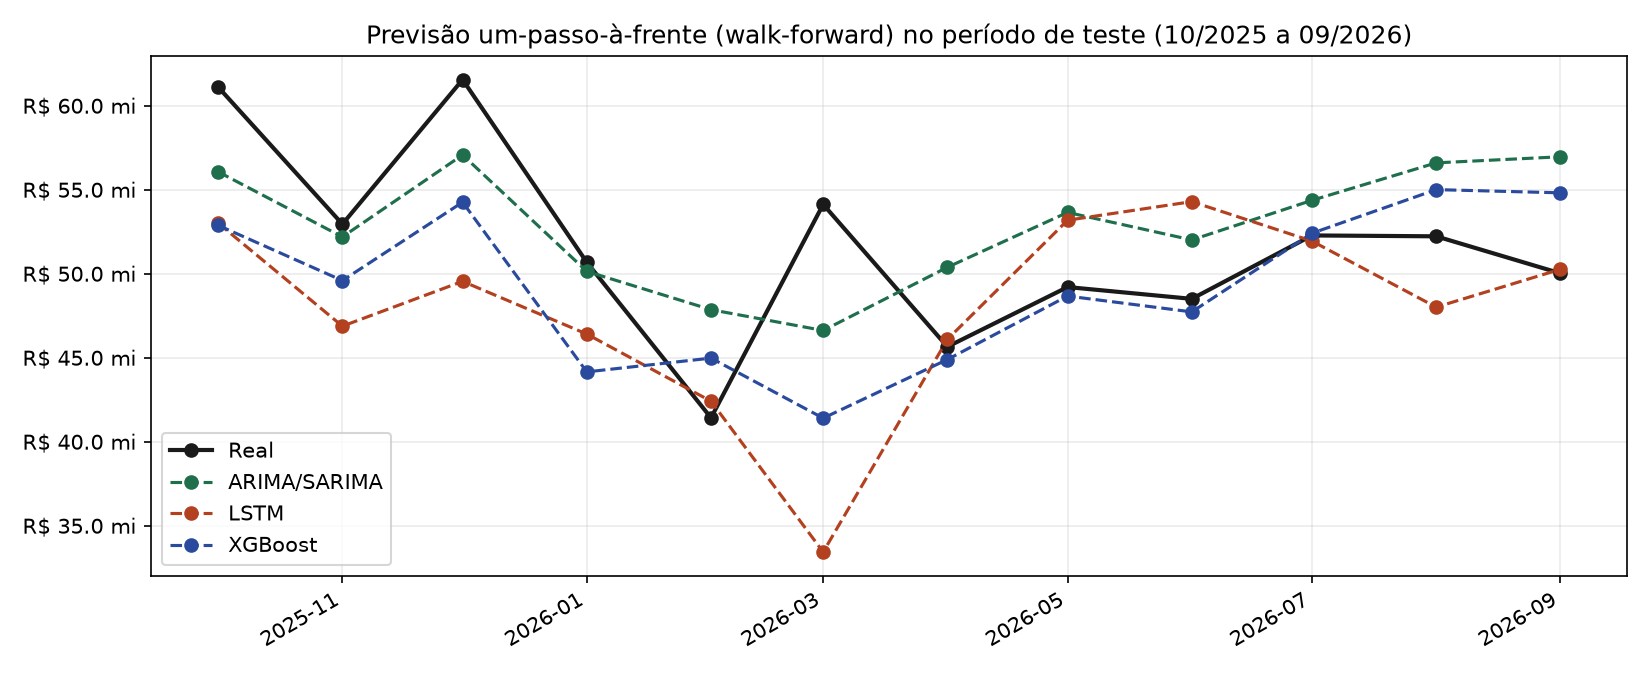
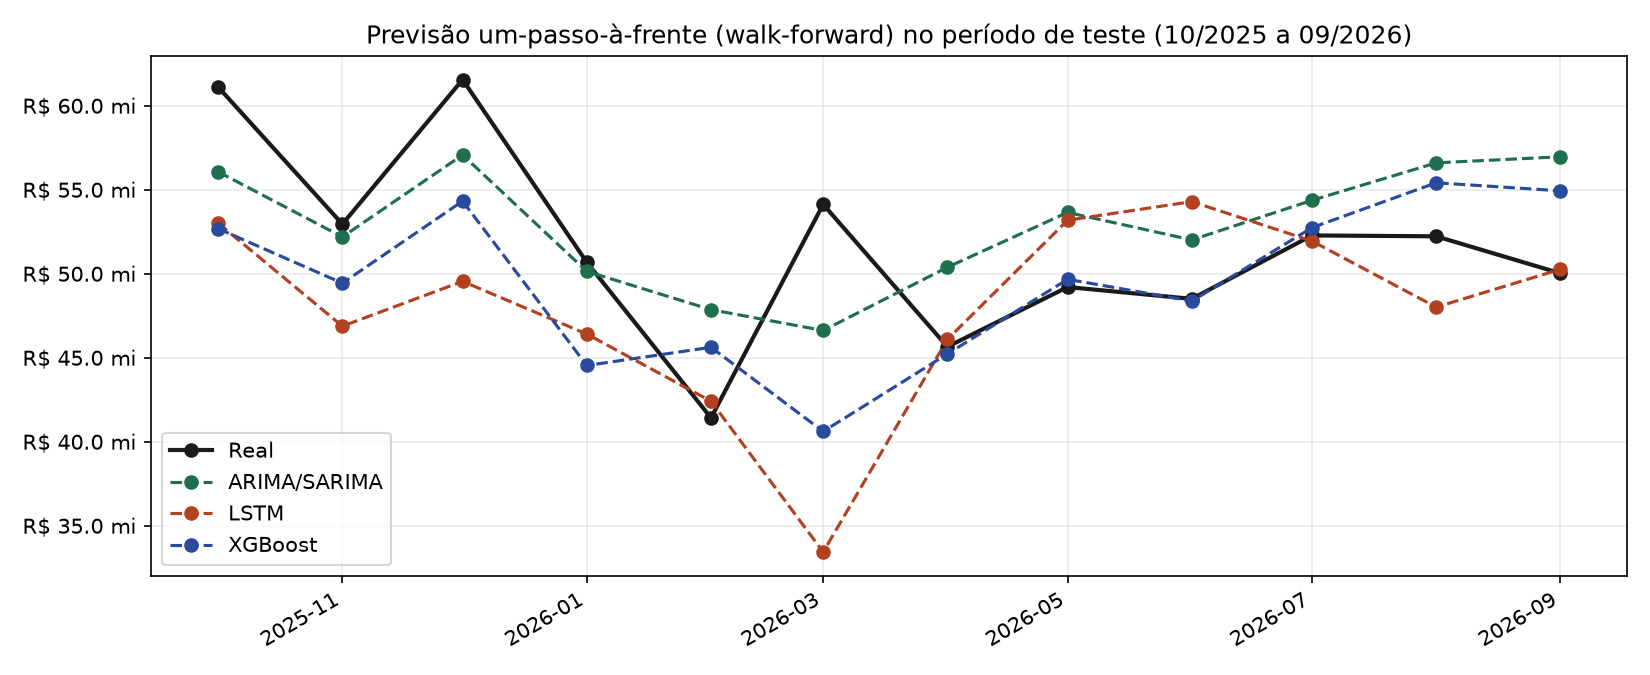
Remove inpc_pct e dummy_lei das entradas do XGBoost
As três arquiteturas passam a usar apenas a série de arrecadação (o
XGBoost, também o calendário: defasagens, média móvel e sazonalidade do
mês). Remove a tabela de percentuais do INPC e a coluna inpc_pct do
loader, mantendo dummy_lei disponível, mas fora dos modelos. Reexecuta
a pipeline e a análise estatística: o MAPE do XGBoost vai de 8,01% para
8,20% e o ganho do ensemble SARIMA+XGBoost praticamente desaparece
(8,18% contra 8,20%). Atualiza o README.

diff --git a/src/data/real_data_loader.py b/src/data/real_data_loader.py
@@ -34,17 +34,10 @@ import pandas as pd
 
 CAMINHO_PADRAO = Path(__file__).resolve().parents[2] / "data" / "raw" / "arrecadacao_bruta_mensal_real_2019_2026.csv"
 
-# Reajustes anuais do INPC aplicados à tabela de emolumentos em janeiro de
-# cada ano (percentuais oficiais, conforme Resoluções GP do TJMA e notícia
-# institucional "Tabela dos serviços cartorários"; anos sem percentual
-# oficial localizado ficam com 0.0 e podem ser complementados depois).
-INPC_REAJUSTE_JANEIRO = {
-    2025: 4.84,
-    2026: 4.17,
-}
-
 # Anos de quebra normativa relevante identificados no Capítulo 2 do Projeto
-# de Qualificação (Lei nº 11.400/2020 e Lei nº 12.325/2024).
+# de Qualificação (Lei nº 11.400/2020 e Lei nº 12.325/2024). A coluna
+# `dummy_lei` fica disponível para experimentos, mas não é usada por nenhum
+# dos três modelos da comparação principal.
 QUEBRAS_LEGISLATIVAS = {2020, 2024}
 
 
@@ -54,7 +47,6 @@ def carregar_serie_real(caminho_csv: str | Path = CAMINHO_PADRAO) -> pd.DataFram
 
     Colunas devolvidas:
         arrecadacao   -> Arrecadação Bruta (A) somada de todas as serventias no mês (R$)
-        inpc_pct      -> reajuste do INPC aplicado naquele mês (0 fora de janeiro)
         dummy_lei     -> 1 nos anos de quebra legislativa adicional, 0 caso contrário
         mes           -> mês do ano (1-12)
         n_serventias  -> nº de serventias que reportaram arrecadação naquele mês (contexto)
@@ -63,13 +55,9 @@ def carregar_serie_real(caminho_csv: str | Path = CAMINHO_PADRAO) -> pd.DataFram
     df = df.set_index("competencia").sort_index()
     df.index.name = "competencia"
 
-    df["inpc_pct"] = [
-        INPC_REAJUSTE_JANEIRO.get(data.year, 0.0) if data.month == 1 else 0.0
-        for data in df.index
-    ]
     df["dummy_lei"] = [1 if data.year in QUEBRAS_LEGISLATIVAS else 0 for data in df.index]
     df = df.rename(columns={"arrecadacao_bruta": "arrecadacao"})
-    df = df[["arrecadacao", "inpc_pct", "dummy_lei", "mes", "n_serventias"]]
+    df = df[["arrecadacao", "dummy_lei", "mes", "n_serventias"]]
     return df
 
 

diff --git a/src/models/xgboost_model.py b/src/models/xgboost_model.py
@@ -4,6 +4,10 @@ xgboost_model.py
 Modelo 3: XGBoost sobre features de defasagem (lags), conforme Seção 3.3.3
 do Projeto de Qualificação - escolhido, no cenário de dados escassos, por
 sua robustez reconhecida na literatura frente a redes profundas.
+
+As entradas derivam apenas da própria série de arrecadação (defasagens e
+média móvel) e do calendário (sazonalidade cíclica do mês), de modo que as
+três arquiteturas comparadas usem a mesma informação.
 """
 
 from __future__ import annotations
@@ -12,7 +16,7 @@ import numpy as np
 import pandas as pd
 from xgboost import XGBRegressor
 
-FEATURES = ["lag_1", "lag_2", "lag_3", "lag_12", "media_movel_3", "mes_sin", "mes_cos", "inpc_pct", "dummy_lei"]
+FEATURES = ["lag_1", "lag_2", "lag_3", "lag_12", "media_movel_3", "mes_sin", "mes_cos"]
 
 
 def treinar_xgboost(df_treino_feats: pd.DataFrame, coluna_alvo: str = "arrecadacao") -> XGBRegressor:
@@ -47,7 +51,6 @@ def forecast_multistep_xgboost(
     anteriores do próprio modelo como novas defasagens (estratégia recursiva
     padrão em previsão multi-step com modelos de regressão)."""
     historico = df_completo_feats[coluna_alvo].copy()
-    inpc_futuro = 0.0  # sem reajuste presumido nos meses futuros além de janeiro
     previsoes = []
     ultimo_mes = df_completo_feats.index[-1].month
     for passo in range(n_passos):
@@ -60,8 +63,6 @@ def forecast_multistep_xgboost(
             "media_movel_3": historico.iloc[-3:].mean(),
             "mes_sin": np.sin(2 * np.pi * mes_futuro / 12),
             "mes_cos": np.cos(2 * np.pi * mes_futuro / 12),
-            "inpc_pct": 4.5 if mes_futuro == 1 else 0.0,  # reajuste médio presumido em janeiro
-            "dummy_lei": 0,
         }
         X = pd.DataFrame([linha])[FEATURES]
         pred = float(modelo.predict(X)[0])

diff --git a/README.md b/README.md
@@ -113,9 +113,15 @@ recentes: outubro/2025 a setembro/2026):
 
 | Modelo | MAE | RMSE | MAPE (%) |
 |---|---:|---:|---:|
-| **XGBoost** | 4.288.162,21 | 5.638.177,42 | **8,01** |
+| **XGBoost** | 4.384.294,86 | 5.835.451,46 | **8,20** |
 | **ARIMA/SARIMA** | 4.237.753,15 | 4.745.362,49 | 8,36 |
 | **LSTM (NumPy)** | 5.594.108,73 | 7.965.571,28 | 10,29 |
+
+As três arquiteturas usam apenas a série de arrecadação (o XGBoost, também o
+calendário, por meio de defasagens, média móvel e sazonalidade cíclica do mês),
+sem variáveis externas. As diferenças entre os modelos não são estatisticamente
+significativas com 12 meses de teste (Friedman, p = 0,78); ver
+`scripts/analise_estatistica.py`.
 
 O XGBoost e o modelo clássico (ARIMA/SARIMA) tiveram desempenho muito próximo e
 superior ao da LSTM — resultado consistente com a **Hipótese H1** do
@@ -142,9 +148,9 @@ multi-step dos 12 meses seguintes (out/2026–set/2027).
    aleatória), hoje usando configurações razoáveis mas não otimizadas.
 3. Reimplementar a LSTM em PyTorch/TensorFlow para viabilizar regularização e
    arquiteturas mais profundas (GRU, LSTM empilhada).
-4. Incorporar o INPC como regressora exógena de forma sistemática (a coluna já
-   existe em `real_data_loader.py`, mas com apenas dois anos de percentual
-   oficial mapeado — 2025 e 2026) e avaliar seu efeito marginal (Hipótese H2).
+4. Ampliar a comparação estatística (múltiplas origens de previsão e séries
+   por serventia ou comarca, com teste de Friedman e post hoc de Nemenyi) e
+   construir o ensemble com o combinador ajustado em período de validação.
 
 ## Testes
 
